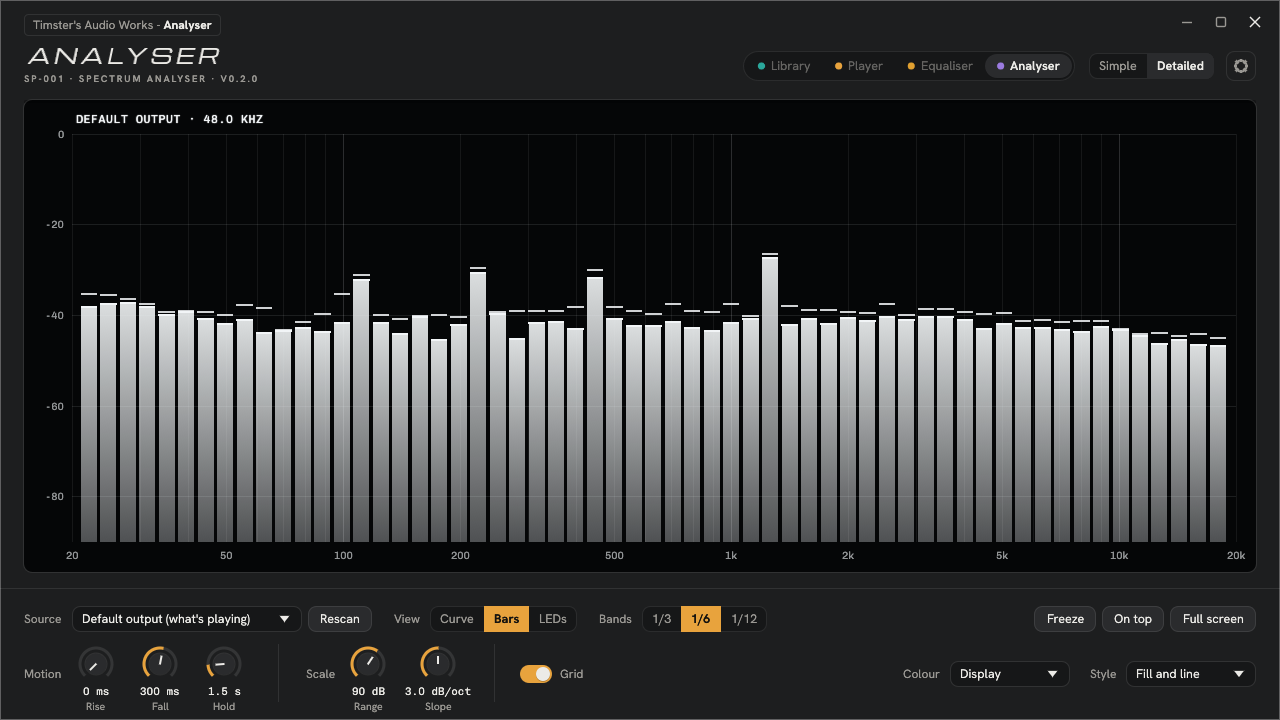
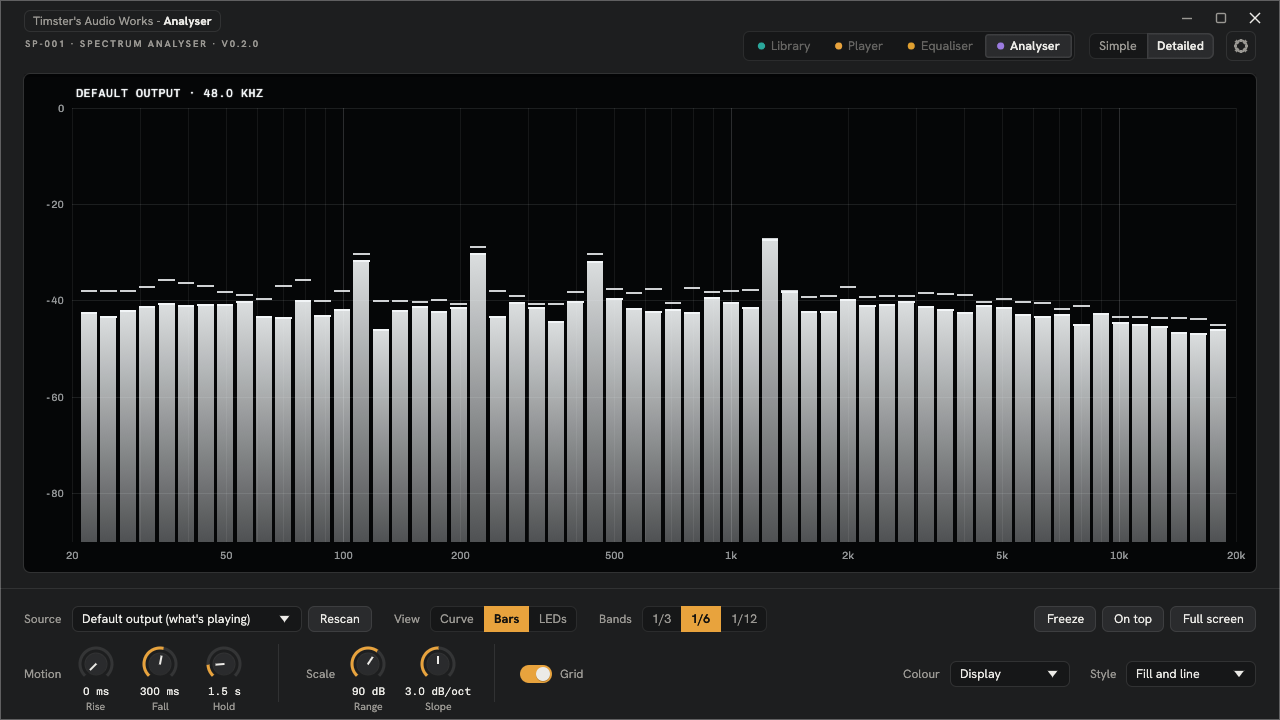
The family's tighter look (TAW-Panel 0.4.0); spectrum falls in silence
- TAW-Panel 0.4.0 (d030ffd, the Player's and Equaliser's pin): the
  shorter nameplate, one corner radius, the heavier chosen segment, the
  drawer's section hairlines, and corner resizing (0.3.2).
- The top band at the Player's measurements: plate 66 (was 96),
  nameplate at (24, 10), window buttons 6 from the top, the key row at
  46; the display gets the room.
- The Equaliser 0.3.1's spectrum fix where it applies: the Analyser never
  hid its spectrum or scale on Analyzer::active, so it didn't flicker, but
  with no samples (Windows loopback while silent) the spectrum stood
  still. It now falls away after 0.25 s without audio, peaks following.
- README screenshots, CHANGELOG, HANDOFF and ROADMAP (VU from Panel 0.6.0).

Claude-Session: https://claude.ai/code/session_01TYDHa2CF3q1gPX2cnAuDSp

diff --git a/src/app.rs b/src/app.rs
@@ -29,7 +29,15 @@ const BAR_W: f32 = 1100.0;
 pub const DEFAULT_SIZE: Vec2 = Vec2::new(1280.0, 720.0);
 const F_MIN: f32 = 20.0;
 const F_MAX: f32 = 20_000.0;
-const PLATE_H: f32 = 96.0;
+/// The nameplate strip (drag it to move the window), as in the Player and
+/// Equaliser.
+const PLATE_H: f32 = 66.0;
+/// The middle of the nameplate's row of keys, just under the window buttons.
+const ROW_Y: f32 = 46.0;
+/// How long without samples before the spectrum falls away, in seconds.
+const UNFED_S: f64 = 0.25;
+/// How fast it falls then, in dB a second.
+const UNFED_FALL_DB_S: f32 = 60.0;
 const BAR_DETAILED: f32 = 132.0;
 const BAR_SIMPLE: f32 = 62.0;
 
@@ -155,6 +163,8 @@ pub struct AnalyserApp {
     settings_open: bool,
     installed: [bool; 4],
     message: Option<(String, f64)>,
+    /// When the analyser last had samples (egui's clock).
+    fed: f64,
 }
 
 impl AnalyserApp {
@@ -175,6 +185,7 @@ impl AnalyserApp {
             settings_open: false,
             installed: [false, false, false, true],
             message: None,
+            fed: f64::NEG_INFINITY,
         };
         app.analyzer.hop = 1024;
         if app.s.on_top {
@@ -214,6 +225,26 @@ impl AnalyserApp {
                 self.error = None;
             }
             Err(e) => self.error = Some(e),
+        }
+    }
+
+    /// `Analyzer::active` only says whether samples came in since the last
+    /// frame. Audio comes in blocks that can be longer than a frame, and not
+    /// at all from Windows' loopback while the output is silent, so the
+    /// spectrum would stand still where the sound stopped. After a moment
+    /// with nothing, let it (and the peak marks) fall away instead.
+    fn fall_when_unfed(&mut self, (now, dt): (f64, f32)) {
+        if self.analyzer.active {
+            self.fed = now;
+        } else if now - self.fed > UNFED_S {
+            let an = &mut self.analyzer;
+            for b in &mut an.bins_db {
+                *b = (*b - UNFED_FALL_DB_S * dt).max(-140.0);
+            }
+            let fall = an.ballistics.peak_fall_db_s * dt;
+            for (p, &b) in an.peaks_db.iter_mut().zip(&an.bins_db) {
+                *p = (*p - fall).max(b);
+            }
         }
     }
 
@@ -597,16 +628,16 @@ impl AnalyserApp {
         }
         hifi::nameplate(
             ui,
-            screen.min + Vec2::new(24.0, 14.0),
+            screen.min + Vec2::new(24.0, 10.0),
             t,
             "Analyser",
             &format!("SP-001 · Spectrum analyser · V{VERSION}"),
         );
         let right = screen.right() - 24.0;
         if !self.s.system_title_bar {
-            hifi::window_buttons(ui, Pos2::new(screen.right() - 10.0, screen.top() + 10.0), t);
+            hifi::window_buttons(ui, Pos2::new(screen.right() - 10.0, screen.top() + 6.0), t);
         }
-        let row = screen.top() + 66.0;
+        let row = screen.top() + ROW_Y;
         let gear = Rect::from_min_size(Pos2::new(right - 30.0, row - 15.0), Vec2::splat(30.0));
         if hifi::gear_button(ui, gear, Id::new("settings"), t, self.settings_open).clicked() {
             self.settings_open = !self.settings_open;
@@ -1010,6 +1041,7 @@ impl eframe::App for AnalyserApp {
         self.analyzer.sample_rate = self.sample_rate();
         if !self.frozen {
             self.analyzer.update();
+            self.fall_when_unfed(ctx.input(|i| (i.time, i.stable_dt)));
         }
         ctx.request_repaint_after(std::time::Duration::from_millis(16));
 
@@ -1032,7 +1064,7 @@ impl eframe::App for AnalyserApp {
             ui.painter()
                 .rect_stroke(screen, 0, Stroke::new(1.0, t.edge), StrokeKind::Inside);
             Rect::from_min_max(
-                Pos2::new(screen.left() + 24.0, screen.top() + PLATE_H + 4.0),
+                Pos2::new(screen.left() + 24.0, screen.top() + PLATE_H + 8.0),
                 Pos2::new(screen.right() - 24.0, bar.top() - 16.0),
             )
         } else {

diff --git a/HANDOFF.md b/HANDOFF.md
@@ -5,7 +5,7 @@ Written 2026-10-14 when the family's work moved from one shared chat to a chat p
 ## Where it stands
 
 - **0.2.0 released on 2026-10-14** (merged to `main`; release.yml publishes `v0.2.0`): the new TAW look. Spool finish by default (Light, Amber), Porcelain alternative; display fills the window; controls in a bottom bar (H hides it); no system title bar (own window buttons, drag, resize; "Use the system title bar" in Settings); Simple and Detailed; family switcher. The spectrum draws in the display's ink by default; colour schemes are in the Colour menu.
-- TAW-Panel pinned at its 0.3.0 commit `1b8162d`, the same as the Equaliser.
+- TAW-Panel pinned at its 0.4.0 commit `d030ffd` (the Player's and Equaliser's pin) from 2026-10-16, on branch `claude/affectionate-lamport-4qi1x0`, not yet merged or released.
 
 ## Workup, 2026-10-14
 
@@ -16,9 +16,17 @@ Checked with live audio at 1280 × 720 and 800 × 500: Simple and Detailed; Curv
 
 Matches the Equaliser: same TAW-Panel pin, nameplate, window buttons, family switcher, Simple/Detailed, gear and settings drawer (Look, Window).
 
+## 2026-10-16: lined up with the Player and Equaliser
+
+- **TAW-Panel 0.4.0** (`d030ffd`): the shorter nameplate (badge and model line), one corner radius, the heavier chosen segment, the drawer's section hairlines, corner resizing (0.3.2). Meter colours aren't used: the Analyser has no meters.
+- **Top band at the Player's measurements:** plate 66 (was 96), nameplate at (24, 10), window buttons at 6 from the top, the key row (family switcher, Simple/Detailed, gear) at 46; the display starts at plate + 8, so it gets 26 px more height.
+- **The Equaliser's spectrum fix, where it applies.** The Equaliser's flicker came from hiding the spectrum and its dB scale whenever `Analyzer::active` was false; the Analyser never checked `active` (its scale is drawn with the grid), so it never flickered. The other half does apply: with no samples (Windows loopback while the output is silent) the bins stood still. `fall_when_unfed` in `app.rs` lets them fall 60 dB/s after 0.25 s without samples, peaks at their own fall rate; Freeze still holds the picture. Under Xvfb the spectrum fell to the floor within 3 s of stopping playback, but a PipeWire monitor may keep sending silence, so that doesn't prove the no-samples path; check on Windows.
+- Checks pass (fmt, clippy for Linux and Windows, tests); screenshots under Xvfb at 1280 × 720 and 800 × 500, Spool and Porcelain, light and dark, and the settings drawer. README screenshots replaced.
+
 ## Next
 
-1. The user's feedback on 0.2.0, picked up in this app's own chat.
+1. The user's visual test of the branch against the Player and Equaliser, then 0.2.1 (bump and merge to release).
+2. The rest of 0.2.x in ROADMAP: tests with real sources on Windows and Linux.
 
 ## How to test here
 

diff --git a/ROADMAP.md b/ROADMAP.md
@@ -19,6 +19,7 @@ Sizes: S = one session, M = two or three, L = a release of its own. Briefs from 
 - [ ] Linux output monitors; an input (microphone)
 - [ ] Full screen and On top on a second screen
 - [ ] Fixes from the user's feedback
+- [ ] The family's tighter look: TAW-Panel 0.4.0, the Player's top band; the spectrum falls away in silence (on the branch, for the user's test)
 
 ### 0.3.0: more ways to look
 
@@ -33,7 +34,7 @@ Sizes: S = one session, M = two or three, L = a release of its own. Briefs from 
 
 ### Later
 
-- [ ] A meter view (the dB scale from TAW-Panel 0.3.1; VU from 0.5.0)
+- [ ] A meter view (the dB scale from TAW-Panel 0.3.1; VU from 0.6.0)
 - [ ] A Box Analyser for the Box family: the same engine with the Jupiter face
 
 ## Done

diff --git a/CHANGELOG.md b/CHANGELOG.md
@@ -2,6 +2,10 @@
 
 ## Unreleased
 
+- The family's tighter look (TAW-Panel 0.4.0), as in the Player and Equaliser: the nameplate is the badge and model line without the big ANALYSER, the top band is shorter (the display gets the room), corners are tighter, and the chosen half of Simple / Detailed stands out.
+- **The window resizes from its corners** too, and every time (TAW-Panel 0.3.2).
+- **The spectrum falls away when the sound stops.** On Windows nothing comes through loopback while the output is silent, so the spectrum stood still where the music ended; after a quarter of a second with no audio it now drops to the floor, and the peak marks follow.
+
 ## 0.2.0 – 2026-10-14
 
 The new TAW look, from TAW-Panel 0.3.0, matching the Equaliser.
